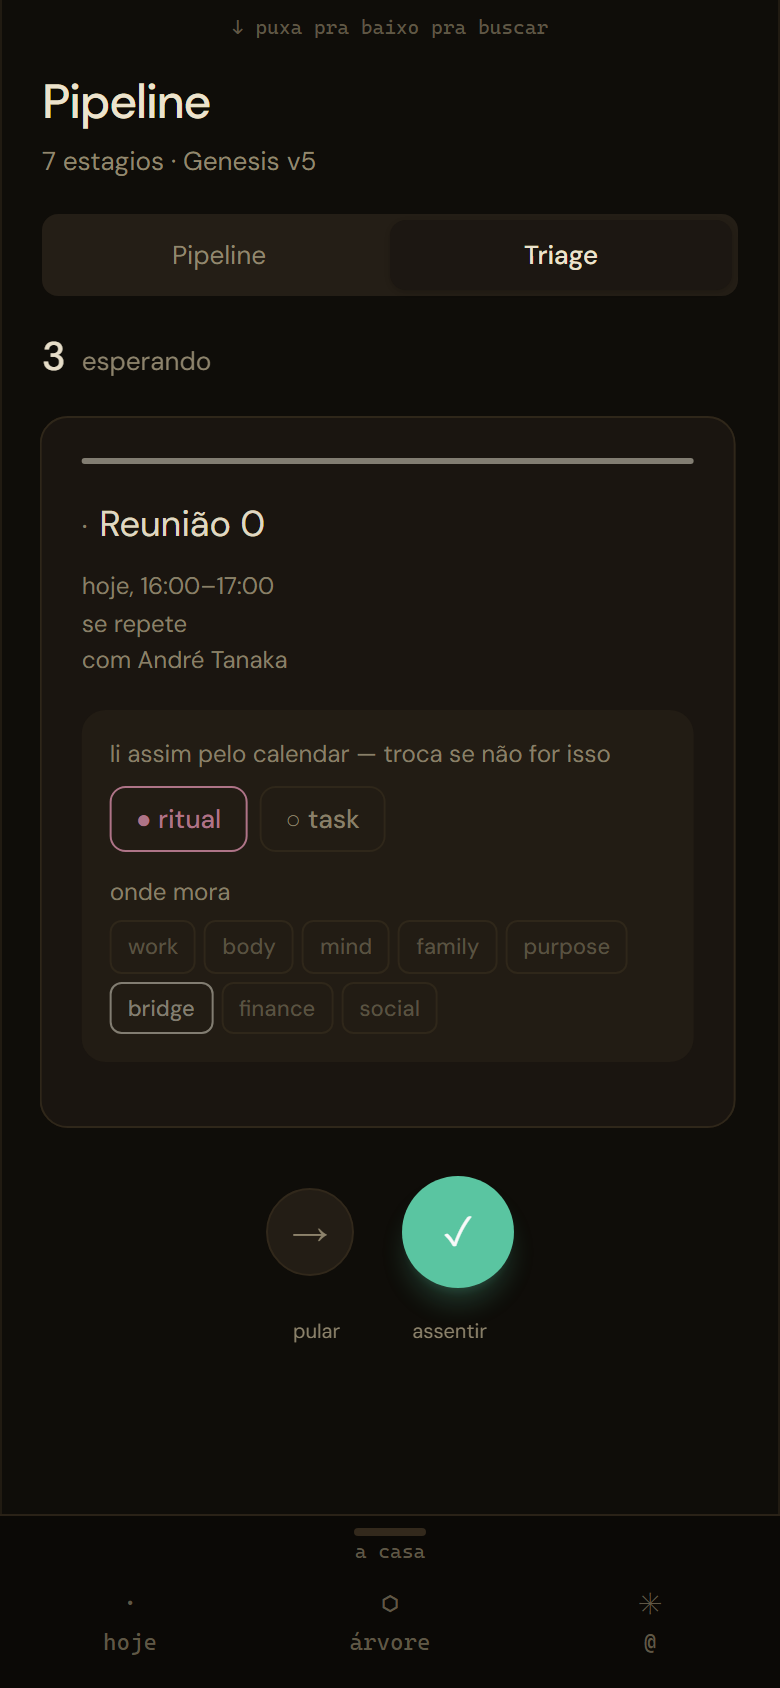
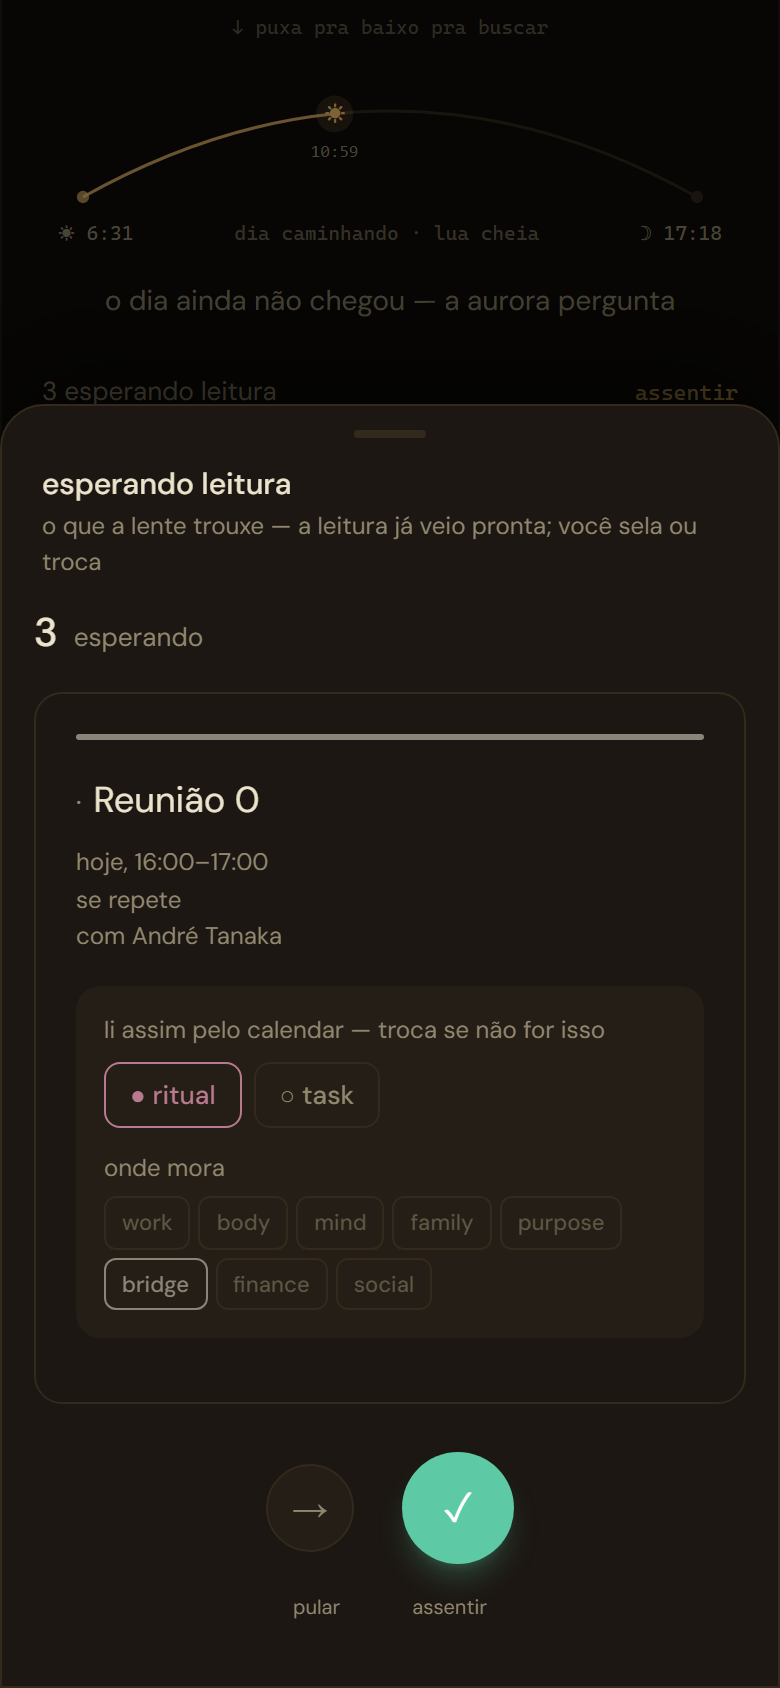
refactor(gate): a mudanca de casa — o que vive do /home muda pro mundo novo
Obra 1 do checklist do gate (19_gate.md par.4): nada morre ainda.

- AuroraRitual, ProtocolBanner, protocol-snooze saem de components/home/
  pra components/hoje/ — pertencem ao HOJE, nao a tela condenada
- ProtocolRunner vai junto: dependencia dura do ProtocolBanner que vive
  (o censo e o grep de imports, nao a lista)
- cena I.2 e cena do ato III do atos.spec migram do /pipeline pra porta
  do HOJE (puxador -> AssentimentoSheet) — a prova e do componente, nao
  da tela; o gate registrava so a I.2, o grep achou as duas
- cena visual «triage — a leitura do conector no chip» migra do mesmo
  jeito; a foto vira da FOLHA (precedente casa-plano-ida), baseline
  refotografada com intencao declarada

Verde: tsc · 404 testes · build · atos 15 cenas · gate visual 13/13.

diff --git a/e2e/atos.spec.ts b/e2e/atos.spec.ts
@@ -83,16 +83,21 @@ test('ato I.2 — assentir que falha NÃO avança o card', async ({ authenticate
       body: JSON.stringify(Array.from({ length: 50 }, (_, i) => conector(i))),
     }),
   );
-  await page.goto('/pipeline?sim=0');
+  // a porta do mundo novo: /pipeline morreu no gate — a prova é do
+  // componente (Assentimento), alcançado pelo puxador do HOJE
+  await page.goto('/hoje?sim=0');
   await page.waitForLoadState('networkidle');
-  await page.getByText('Triage', { exact: true }).click();
+  await page.waitForTimeout(600);
+  await passarAurora(page);
+  await page.getByRole('button', { name: /assentir/ }).click();
   await page.waitForTimeout(500);
+  const folha = page.getByRole('dialog', { name: 'Esperando leitura' });
 
-  await expect(page.getByText('Fatura #1000')).toBeVisible();
+  await expect(folha.getByText('Fatura #1000')).toBeVisible();
 
   // três tentativas que falham na gravação (mundo mockado)
   for (let i = 0; i < 3; i++) {
-    await page.getByRole('button', { name: /Assentir/ }).click();
+    await folha.getByRole('button', { name: /Assentir/ }).click();
     await page.waitForTimeout(400);
   }
 
@@ -100,8 +105,8 @@ test('ato I.2 — assentir que falha NÃO avança o card', async ({ authenticate
   // é da casa, não o erro cru do FSM que vazava pra tela (obra 12)
   await expect(page.getByText(/não consegui selar/).first()).toBeVisible();
   // e mesmo assim o card não andou: a esteira não finge que selou
-  await expect(page.getByText('Fatura #1000')).toBeVisible();
-  await expect(page.getByText('Fatura #1001')).toHaveCount(0);
+  await expect(folha.getByText('Fatura #1000')).toBeVisible();
+  await expect(folha.getByText('Fatura #1001')).toHaveCount(0);
 });
 
 // ─── Ato II — a porta que faltava ────────────────────────
@@ -187,33 +192,38 @@ test('ato III — o card mostra o que a lente trouxe, e pular manda pro fim', as
       body: JSON.stringify([evento(0), evento(1), evento(2)]),
     }),
   );
-  await page.goto('/pipeline?sim=0');
+  // a porta do mundo novo: a esteira se prova na folha do HOJE (a tela
+  // /pipeline morreu no gate; o componente é o mesmo)
+  await page.goto('/hoje?sim=0');
   await page.waitForLoadState('networkidle');
-  await page.getByText('Triage', { exact: true }).click();
+  await page.waitForTimeout(600);
+  await passarAurora(page);
+  await page.getByRole('button', { name: /assentir/ }).click();
   await page.waitForTimeout(500);
+  const folha = page.getByRole('dialog', { name: 'Esperando leitura' });
 
   // o contexto que estava no body e a tela escondia
-  await expect(page.getByText('Reunião 0')).toBeVisible();
-  await expect(page.getByText('hoje, 16:00–17:00')).toBeVisible();
-  await expect(page.getByText('se repete')).toBeVisible();
-  await expect(page.getByText('com André Tanaka')).toBeVisible();
+  await expect(folha.getByText('Reunião 0')).toBeVisible();
+  await expect(folha.getByText('hoje, 16:00–17:00')).toBeVisible();
+  await expect(folha.getByText('se repete')).toBeVisible();
+  await expect(folha.getByText('com André Tanaka')).toBeVisible();
   // e o módulo passa a ser trocável — não sela tudo em bridge
-  await expect(page.getByText('onde mora')).toBeVisible();
-  await expect(page.getByRole('button', { name: 'family', exact: true })).toBeVisible();
+  await expect(folha.getByText('onde mora')).toBeVisible();
+  await expect(folha.getByRole('button', { name: 'family', exact: true })).toBeVisible();
   await page.screenshot({ path: 'docs/onda-3/14_dissecacao-01_fotos/26-ato3-card-com-contexto.png', fullPage: true });
 
   // pular NÃO gira em círculo: manda pro fim
-  await page.getByRole('button', { name: 'Pular' }).click();
+  await folha.getByRole('button', { name: 'Pular' }).click();
   await page.waitForTimeout(400);
-  await expect(page.getByText('Reunião 1')).toBeVisible();
-  await page.getByRole('button', { name: 'Pular' }).click();
+  await expect(folha.getByText('Reunião 1')).toBeVisible();
+  await folha.getByRole('button', { name: 'Pular' }).click();
   await page.waitForTimeout(400);
-  await expect(page.getByText('Reunião 2')).toBeVisible();
+  await expect(folha.getByText('Reunião 2')).toBeVisible();
   // só depois de todos é que o primeiro volta — e a tela diz isso
-  await page.getByRole('button', { name: 'Pular' }).click();
+  await folha.getByRole('button', { name: 'Pular' }).click();
   await page.waitForTimeout(400);
-  await expect(page.getByText('Reunião 0')).toBeVisible();
-  await expect(page.getByText('todos já passaram uma vez')).toBeVisible();
+  await expect(folha.getByText('Reunião 0')).toBeVisible();
+  await expect(folha.getByText('todos já passaram uma vez')).toBeVisible();
 });
 
 // ─── Ato IV — a lente que não mente ──────────────────────

diff --git a/e2e/visual-mundo-novo.spec.ts b/e2e/visual-mundo-novo.spec.ts
@@ -117,13 +117,17 @@ test('builder — a entrevista pare cadeia e protocolo', async ({ authenticatedP
 // ─── a lente (obra 7 · D67/D68/D69) ──────────────────────
 
 test('triage — a leitura do conector no chip (D69)', async ({ authenticatedPage: page }) => {
-  // sem relógio: a troca de card do Triage é AnimatePresence mode="wait"
-  await chegarSemRelogio(page, '/pipeline');
-  await page.getByText('Triage', { exact: true }).click();
+  // sem relógio: a troca de card do Triage é AnimatePresence mode="wait".
+  // a porta é a do mundo novo (/pipeline morreu no gate): puxador do HOJE →
+  // folha. A foto é da FOLHA (precedente casa-plano-ida) — sem relógio fixo
+  // o arco vivo andaria de minuto em minuto por trás dela.
+  await chegarSemRelogio(page, '/hoje');
+  await page.getByRole('button', { name: /assentir/ }).click();
   await page.waitForTimeout(500);
-  await page.getByRole('button', { name: 'Pular' }).click(); // passa o ponto do @; chega o conector
+  const folha = page.getByRole('dialog', { name: 'Esperando leitura' });
+  await folha.getByRole('button', { name: 'Pular' }).click(); // passa o ponto do @; chega o conector
   await page.waitForTimeout(600);
-  await expect(page).toHaveScreenshot('triage-leitura-conector.png', SHOT);
+  await expect(folha).toHaveScreenshot('triage-leitura-conector.png', { maxDiffPixelRatio: 0.01 });
 });
 
 test('a casa — o plano da ida (D68)', async ({ authenticatedPage: page }) => {

diff --git a/src/pages/Home.tsx b/src/pages/Home.tsx
@@ -14,11 +14,11 @@ import { getCreatedToday, getModifiedToday } from '@/engine/wrap';
 import { motion } from 'framer-motion';
 import { useRaiz } from '@/hooks/useRaiz';
 import { useSoulStore } from '@/store/soul-store';
-import { AuroraRitual } from '@/components/home/AuroraRitual';
+import { AuroraRitual } from '@/components/hoje/AuroraRitual';
 import { SoulCard } from '@/components/home/SoulCard';
 import { WrapBanner } from '@/components/home/WrapBanner';
 import { ReviewBanner } from '@/components/home/ReviewBanner';
-import { ProtocolBanner } from '@/components/home/ProtocolBanner';
+import { ProtocolBanner } from '@/components/hoje/ProtocolBanner';
 import { ProtocolShelf } from '@/components/home/ProtocolShelf';
 import { CaptureInput } from '@/components/home/CaptureInput';
 import { ItemCard } from '@/components/shared/ItemCard';

diff --git a/src/pages/Hoje.tsx b/src/pages/Hoje.tsx
@@ -10,8 +10,8 @@ import { useConnections } from '@/hooks/useConnections';
 import { useNav } from '@/hooks/useNav';
 import { useSoulStore } from '@/store/soul-store';
 import { getCurrentPeriod } from '@/types/ui';
-import { AuroraRitual } from '@/components/home/AuroraRitual';
-import { ProtocolBanner } from '@/components/home/ProtocolBanner';
+import { AuroraRitual } from '@/components/hoje/AuroraRitual';
+import { ProtocolBanner } from '@/components/hoje/ProtocolBanner';
 import { esperandoLeitura } from '@/components/triage/Assentimento';
 import { AssentimentoSheet } from '@/components/triage/AssentimentoSheet';
 import { ProjectSheet } from '@/components/project/ProjectSheet';

diff --git a/src/pages/At.tsx b/src/pages/At.tsx
@@ -16,7 +16,7 @@ import { readMouth, resolveListTarget, structureFromTriage, readingChips } from 
 import { listLists, readListBody } from '@/engine/list';
 import { evaluateProtocols, readTodaySoul } from '@/engine/protocol';
 import { getCurrentPeriod } from '@/types/ui';
-import { getSnoozedIds } from '@/components/home/protocol-snooze';
+import { getSnoozedIds } from '@/components/hoje/protocol-snooze';
 import { pipelineService } from '@/service/pipeline-service';
 import { itemService } from '@/service/item-service';
 import { outboxService } from '@/service/outbox-service';

diff --git a/src/components/home/ProtocolShelf.tsx b/src/components/home/ProtocolShelf.tsx
@@ -6,7 +6,7 @@ import { useMemo, useState } from 'react';
 import type { AtomItem } from '@/types/item';
 import { listProtocols } from '@/engine/protocol';
 import { useItems } from '@/hooks/useItems';
-import { ProtocolRunner } from './ProtocolRunner';
+import { ProtocolRunner } from '@/components/hoje/ProtocolRunner';
 import { ProtocolComposer } from './ProtocolComposer';
 
 export function ProtocolShelf() {

diff --git a/src/components/hoje/AuroraRitual.tsx b/src/components/hoje/AuroraRitual.tsx
@@ -1,4 +1,4 @@
-// components/home/AuroraRitual.tsx — a porta do dia (spec v0.4 · Fase 2)
+// components/hoje/AuroraRitual.tsx — a porta do dia (spec v0.4 · Fase 2)
 // Tela-ritual imersiva, nunca formulário: respiração → check-in → journaling
 // (página, primeira classe) → chegada com o estado do dia. Tudo pulável —
 // a lei: nunca forçar. Sucede o AuroraCheckin (embrião E2).

diff --git a/src/components/hoje/ProtocolRunner.tsx b/src/components/hoje/ProtocolRunner.tsx
@@ -1,4 +1,4 @@
-// home/ProtocolRunner.tsx — desdobrar e viver o protocolo (Fase 7 · D2)
+// hoje/ProtocolRunner.tsx — desdobrar e viver o protocolo (Fase 7 · D2)
 // A situação chamou (ou a mão puxou) → os passos se abrem. Tocar passo marca;
 // "executado ○" deixa o rastro (atom_events) e silencia o chamado de hoje.
 // Sair sempre possível — nunca forçar.

diff --git a/src/components/hoje/ProtocolBanner.tsx b/src/components/hoje/ProtocolBanner.tsx
@@ -1,4 +1,4 @@
-// home/ProtocolBanner.tsx — o chamado do protocolo (Fase 7 · D2)
+// hoje/ProtocolBanner.tsx — o chamado do protocolo (Fase 7 · D2)
 // Discreto por lei: a situação chamou → convida; não chamou → return null.
 // "×" silencia por hoje (por aparelho); amanhã a condição decide de novo.
 import { useMemo, useState } from 'react';

diff --git a/src/components/hoje/protocol-snooze.ts b/src/components/hoje/protocol-snooze.ts
@@ -1,4 +1,4 @@
-// home/protocol-snooze.ts — silêncio por aparelho (Fase 7)
+// hoje/protocol-snooze.ts — silêncio por aparelho (Fase 7)
 // Mesmo padrão do PersonSuggestions: localStorage, nunca o tronco.
 // Protocolo rodado ou dispensado não volta a chamar HOJE; amanhã a condição
 // decide de novo.
